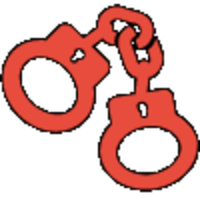
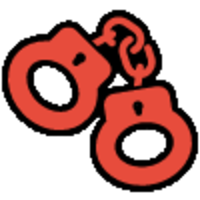
improve ban img

diff --git a/src/style/game/player-card.less b/src/style/game/player-card.less
@@ -152,9 +152,8 @@
             width: 20px;
             padding-top: 18px;
             justify-content: center;
-            -webkit-text-stroke: 0.4px black;
+            -webkit-text-stroke: 0.8px black;
             font: 14px Arvo;
-            background-image: url('../../../assets/images/inline/ban.png');
         }
         &.friends {
             color: greenyellow;
@@ -164,8 +163,7 @@
         }
         &.friends,
         &.stats,
-        &.rank,
-        &.mfp {
+        &.rank {
             &:before {
                 font-size: 18px;
             }

diff --git a/src/style/main/games-room-one.less b/src/style/main/games-room-one.less
@@ -182,7 +182,6 @@
             padding-top: 18px;
             justify-content: center;
             font: 14px Arvo;
-            background-image: url('../../../assets/images/inline/ban.png');
         }
         &.friends {
             color: greenyellow;
@@ -193,8 +192,7 @@
         &.friends,
         &.ion-person-stalker,
         &.stats,
-        &.rank,
-        &.mfp {
+        &.rank {
             &:before {
                 font-size: 20px;
             }

diff --git a/src/style/main.less b/src/style/main.less
@@ -46,3 +46,7 @@ div.IM {
 .widther.main-section-love, .widther.index-letsplay {
     height: unset !important;
 }
+
+.mfp {
+    background-image: url('../../assets/images/inline/ban.png');
+}
